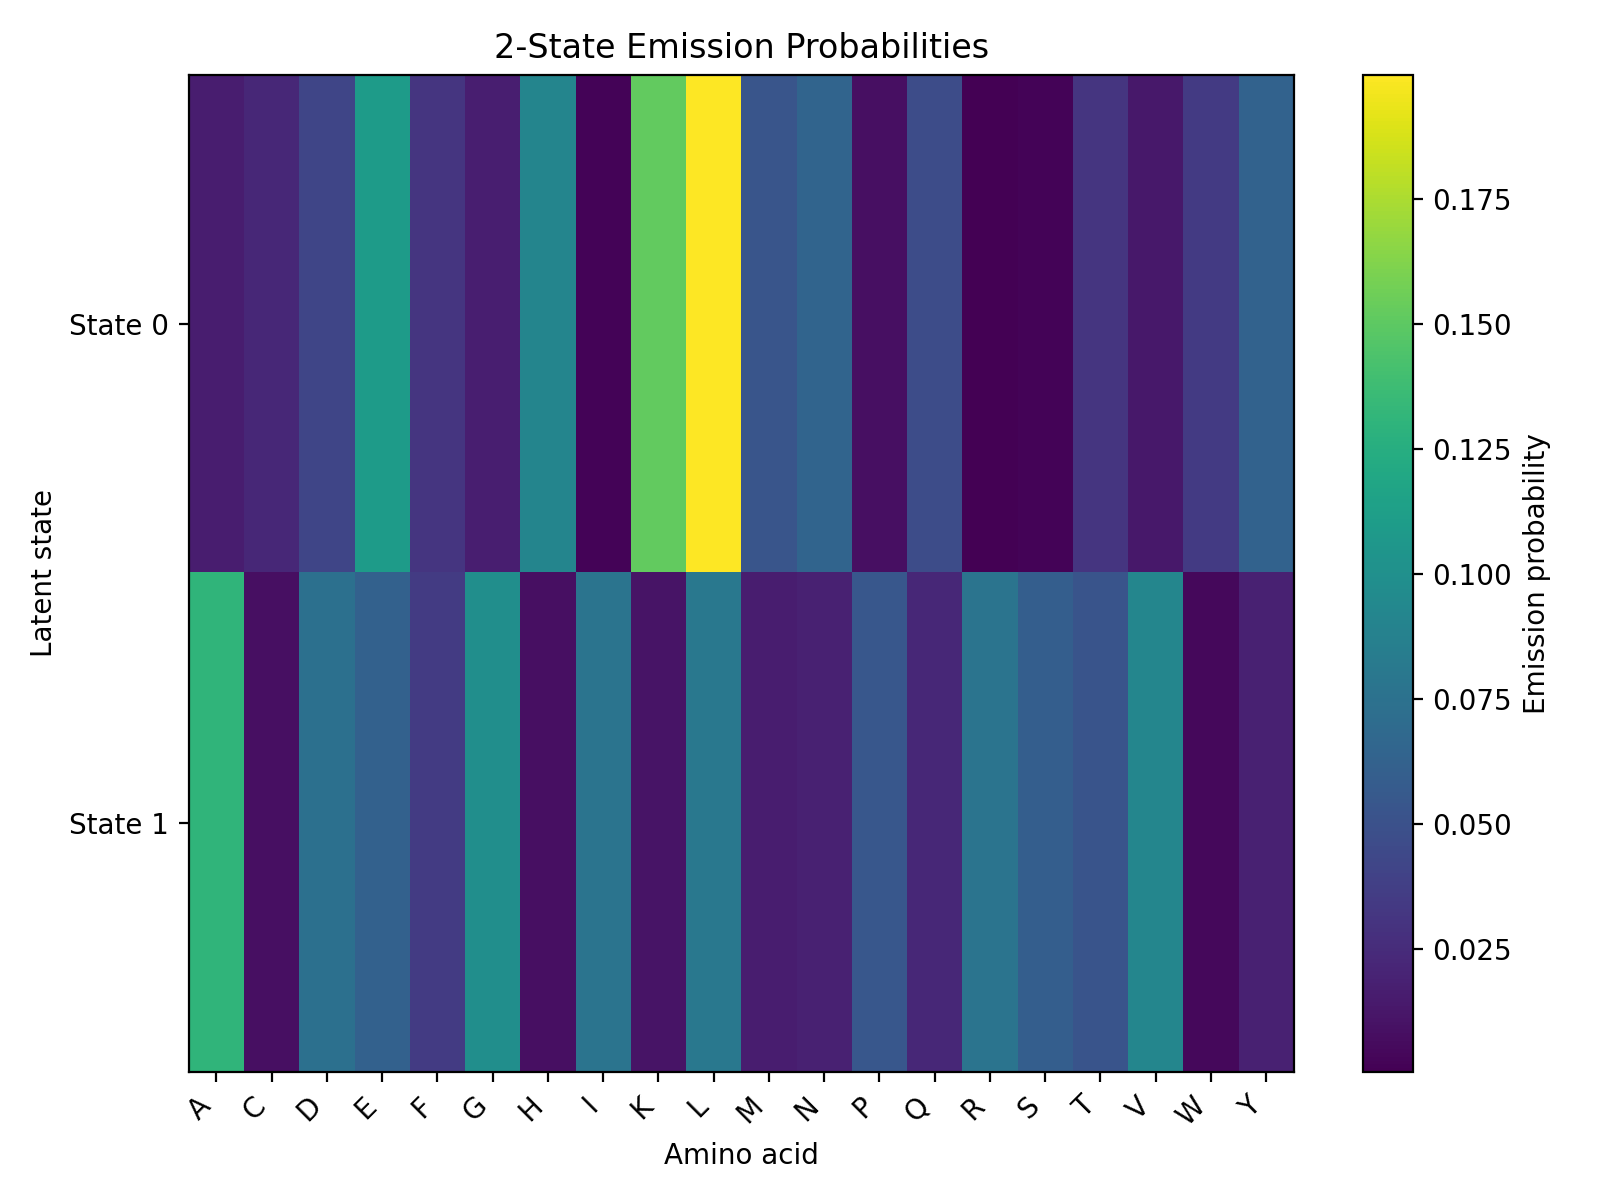
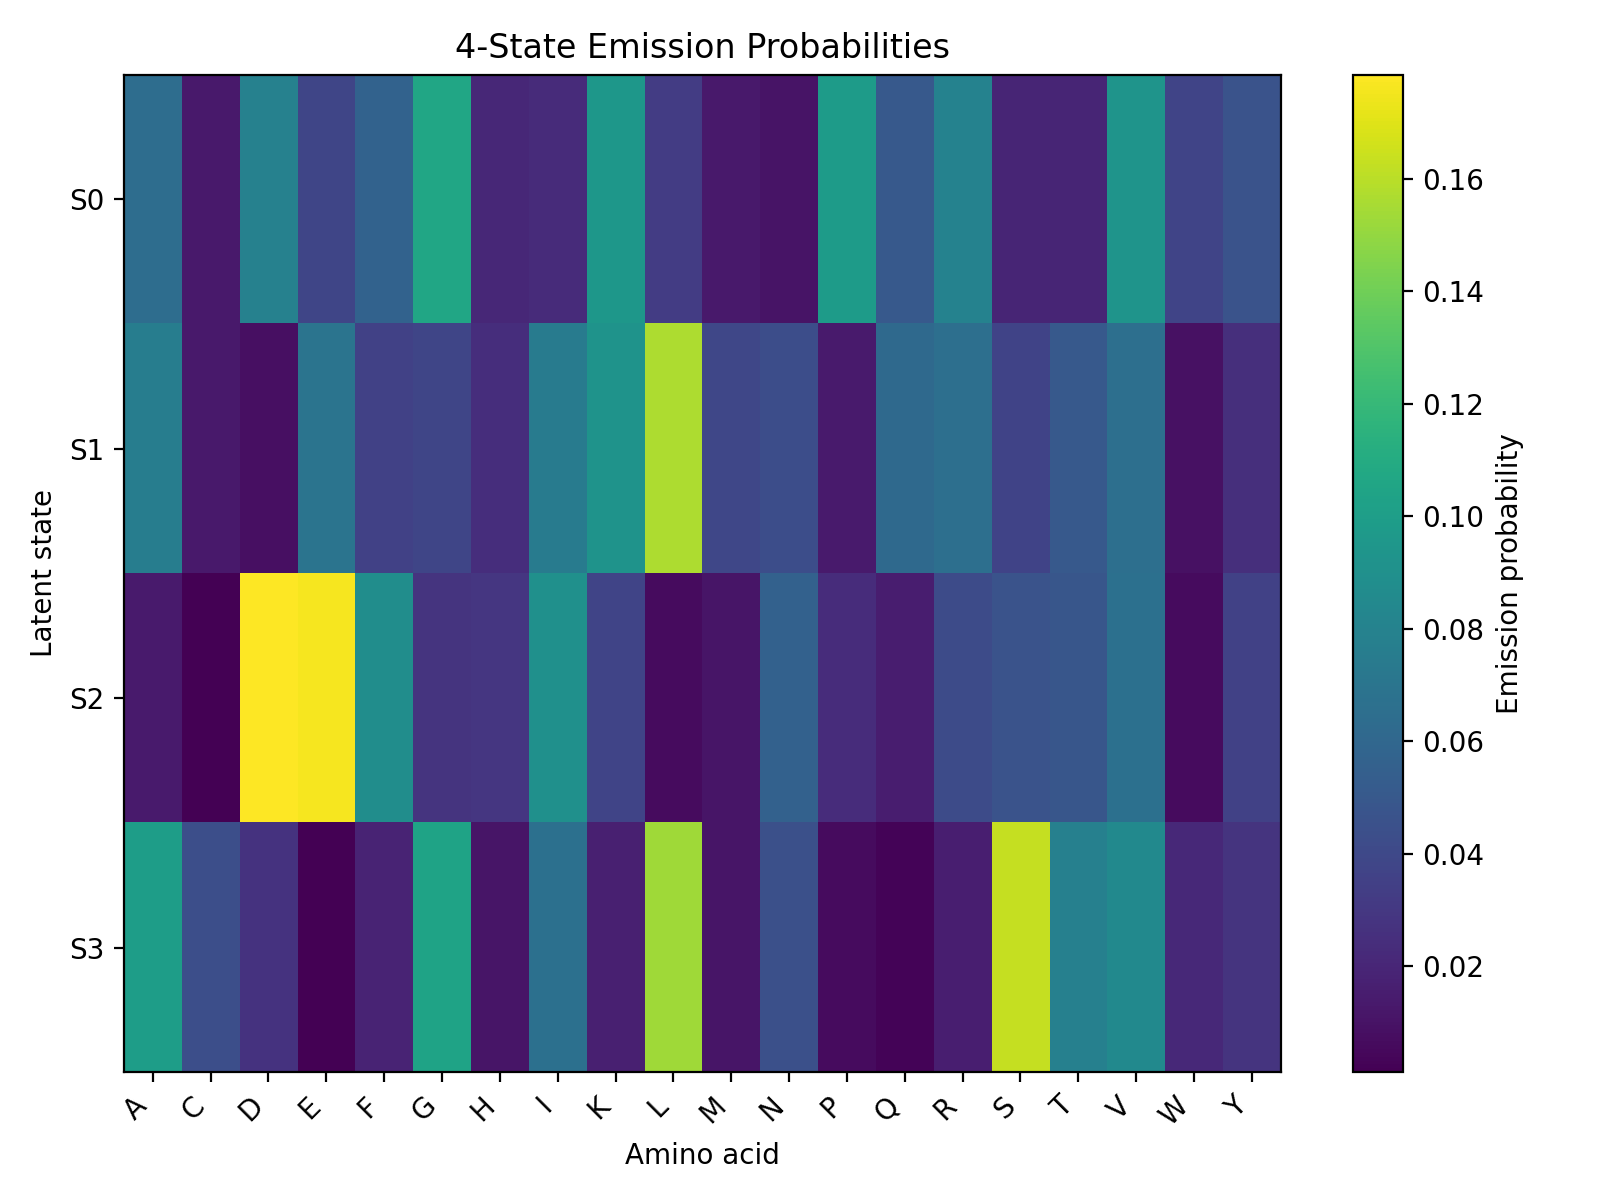
refresh poster figures, tables, and notes from the 1039-protein SIFTS run
End-to-end rerun on the new SIFTS-derived dataset across six families
(PF00069 Pkinase, PF00071 Ras, PF00076 RRM_1, PF00595 PDZ, PF13499
EF-hand_7, PF00400 WD40), 722 train / 154 val / 154 test.

Headline results:
- BIC selects K=6 unsupervised; K=8 gives best test SOV (0.491).
- Cross-family per-residue likelihood: every test family is best modeled
  by its own family-trained HMM (self-rank=1 across all six).
- Composition baselines remain strong on Q3 (family majority 0.515,
  residue majority 0.479). Unsupervised K=6 reaches Q3 0.460 / SOV 0.468
  but ARI stays under 0.03 — the recovered structure is sequential, not
  per-residue DSSP-aligned.
- Reference HMM Q3 0.441 / SOV 0.124 is the supervised lower-bound and
  shows that simple K=3 categorical emissions do not span DSSP labels
  even with full supervision.

diff --git a/reports/notes/figure_captions.md b/reports/notes/figure_captions.md
@@ -1,13 +1,34 @@
 # Figure Captions
 
-## Model Selection by BIC
-Candidate unsupervised HMMs were fit with 2, 3, 4, 6, and 8 latent states. Lower BIC indicates stronger support after penalizing additional transition, emission, and start-probability parameters.
+## model_selection_bic.png
+Train-set BIC for unsupervised HMMs at K=2,3,4,6,8 (lower is better). The BIC penalty grows roughly as O(K^2) through the transition matrix; the curve trades likelihood gain against this penalty.
 
-## 2-State Emission Probabilities
-Rows show latent states and columns show amino-acid emission probabilities. The selected 2-state model separates amino-acid composition regimes rather than DSSP secondary-structure classes.
+## model_selection_val_ll.png
+Validation log-likelihood per residue versus K. Useful as a held-out cross-check on BIC.
 
-## 2-State Transition Matrix
-Entries show transition probabilities between latent states. State 1 is comparatively persistent, while State 0 more often transitions into State 1.
+## em_convergence.png
+Total training log-likelihood per Baum-Welch iteration for each candidate K. Used to confirm that EM converged (or to flag the cases where it did not).
 
-## Family HMM Transition-Matrix Distances
-Pairwise Frobenius distances between family-specific transition matrices. Smaller values indicate families whose learned transition dynamics are more similar.
+## emission_heatmap.png / emission_enrichment.png
+Per-state emission probabilities and the log2 enrichment of each amino acid relative to the training-set background. Enrichment is the more interpretable view since it removes the dominant frequency baseline.
+
+## transition_heatmap.png
+Latent transition matrix for the main unsupervised HMM. Diagonal mass quantifies state persistence (expected dwell length is 1/(1 - p_ii)).
+
+## state_dssp_enrichment.png
+P(DSSP class | latent state) on the test set after Hungarian-mapping latent states to H/E/C using the training set. Quantifies how much DSSP signal each unsupervised state captures.
+
+## state_hydrophobicity.png / state_polarity.png
+Per-state biochemical summaries: Kyte-Doolittle hydrophobicity (mass-weighted) and the probability mass on polar / charged residues.
+
+## decoded_*.png
+Example test proteins with the Viterbi state path overlaid on the DSSP label band, one per family.
+
+## family_transition_distances.png
+Pairwise Frobenius distance between family-specific transition matrices after Hungarian alignment of states by emission Jensen-Shannon distance. Without alignment, these distances are dominated by arbitrary state labelling.
+
+## family_stationary_distances.png
+Pairwise L1 distance between sorted stationary distributions across family models. Sorting makes the comparison permutation-invariant without requiring alignment.
+
+## cross_family_log_likelihood.png
+Per-residue log-likelihood of each family-trained HMM evaluated on every family's test sequences. Diagonal dominance is the indication that families have distinct sequential organisation.

diff --git a/reports/notes/poster_key_results.md b/reports/notes/poster_key_results.md
@@ -1,8 +1,21 @@
 # Poster Key Results
 
-- Structure-linked dataset: 55 annotated proteins from 146 Pfam seed candidates.
-- Final split sizes: 37 train, 9 validation, 9 test.
-- BIC-selected unsupervised HMM: 2 latent states with BIC 31359.64.
-- Validation-likelihood-selected HMM: 4 latent states with validation log-likelihood -3728.67.
-- Best annotation baseline by Q3: residue_majority_label with Q3 0.5465 and SOV 0.4794.
-- Main interpretation: unsupervised HMMs capture amino-acid composition and family-level dynamics more clearly than DSSP secondary-structure classes.
+- Structure-linked dataset: 1039 annotated proteins from 19236 Pfam seed candidates.
+- Final split sizes: 722 train, 154 validation, 154 test.
+- BIC-selected unsupervised HMM: K=6 (BIC 749091.83).
+- Validation-LL-best HMM: K=6 (val LL/res -2.8812).
+- Interpretation HMM (K=4): val LL/res -2.8902, Q3 0.4197, SOV 0.3754, ARI 0.0198.
+- Best annotation baseline by Q3: family_majority_label (Q3 0.5150, SOV 0.0548). The supervised reference HMM should improve on this; the unsupervised HMM is not expected to.
+- Unified evaluation (test set):
+  - iid_categorical: Q3=, SOV=, test LL/res=-2.8987
+  - observed_markov: Q3=, SOV=, test LL/res=-2.8838
+  - global_majority_label: Q3=0.3692, SOV=0.0497, test LL/res=
+  - family_majority_label: Q3=0.5150, SOV=0.0548, test LL/res=
+  - residue_majority_label: Q3=0.4793, SOV=0.4803, test LL/res=
+  - unsupervised_K2: Q3=0.4680, SOV=0.1265, test LL/res=-2.8947
+  - unsupervised_K3: Q3=0.3794, SOV=0.3651, test LL/res=-2.8979
+  - unsupervised_K4: Q3=0.4197, SOV=0.3754, test LL/res=-2.8936
+  - unsupervised_K6: Q3=0.4599, SOV=0.4683, test LL/res=-2.8847
+  - unsupervised_K8: Q3=0.4596, SOV=0.4906, test LL/res=-2.8883
+  - reference_hmm_semi_supervised: Q3=0.4413, SOV=0.1240, test LL/res=-2.8999
+- Main interpretation: unsupervised HMMs primarily separate amino-acid composition regimes (hydrophobic vs polar), recovering some helix/coil signal but not strand boundaries; the constrained reference HMM is the upper bound on Q3/SOV achievable from these emissions alone.
